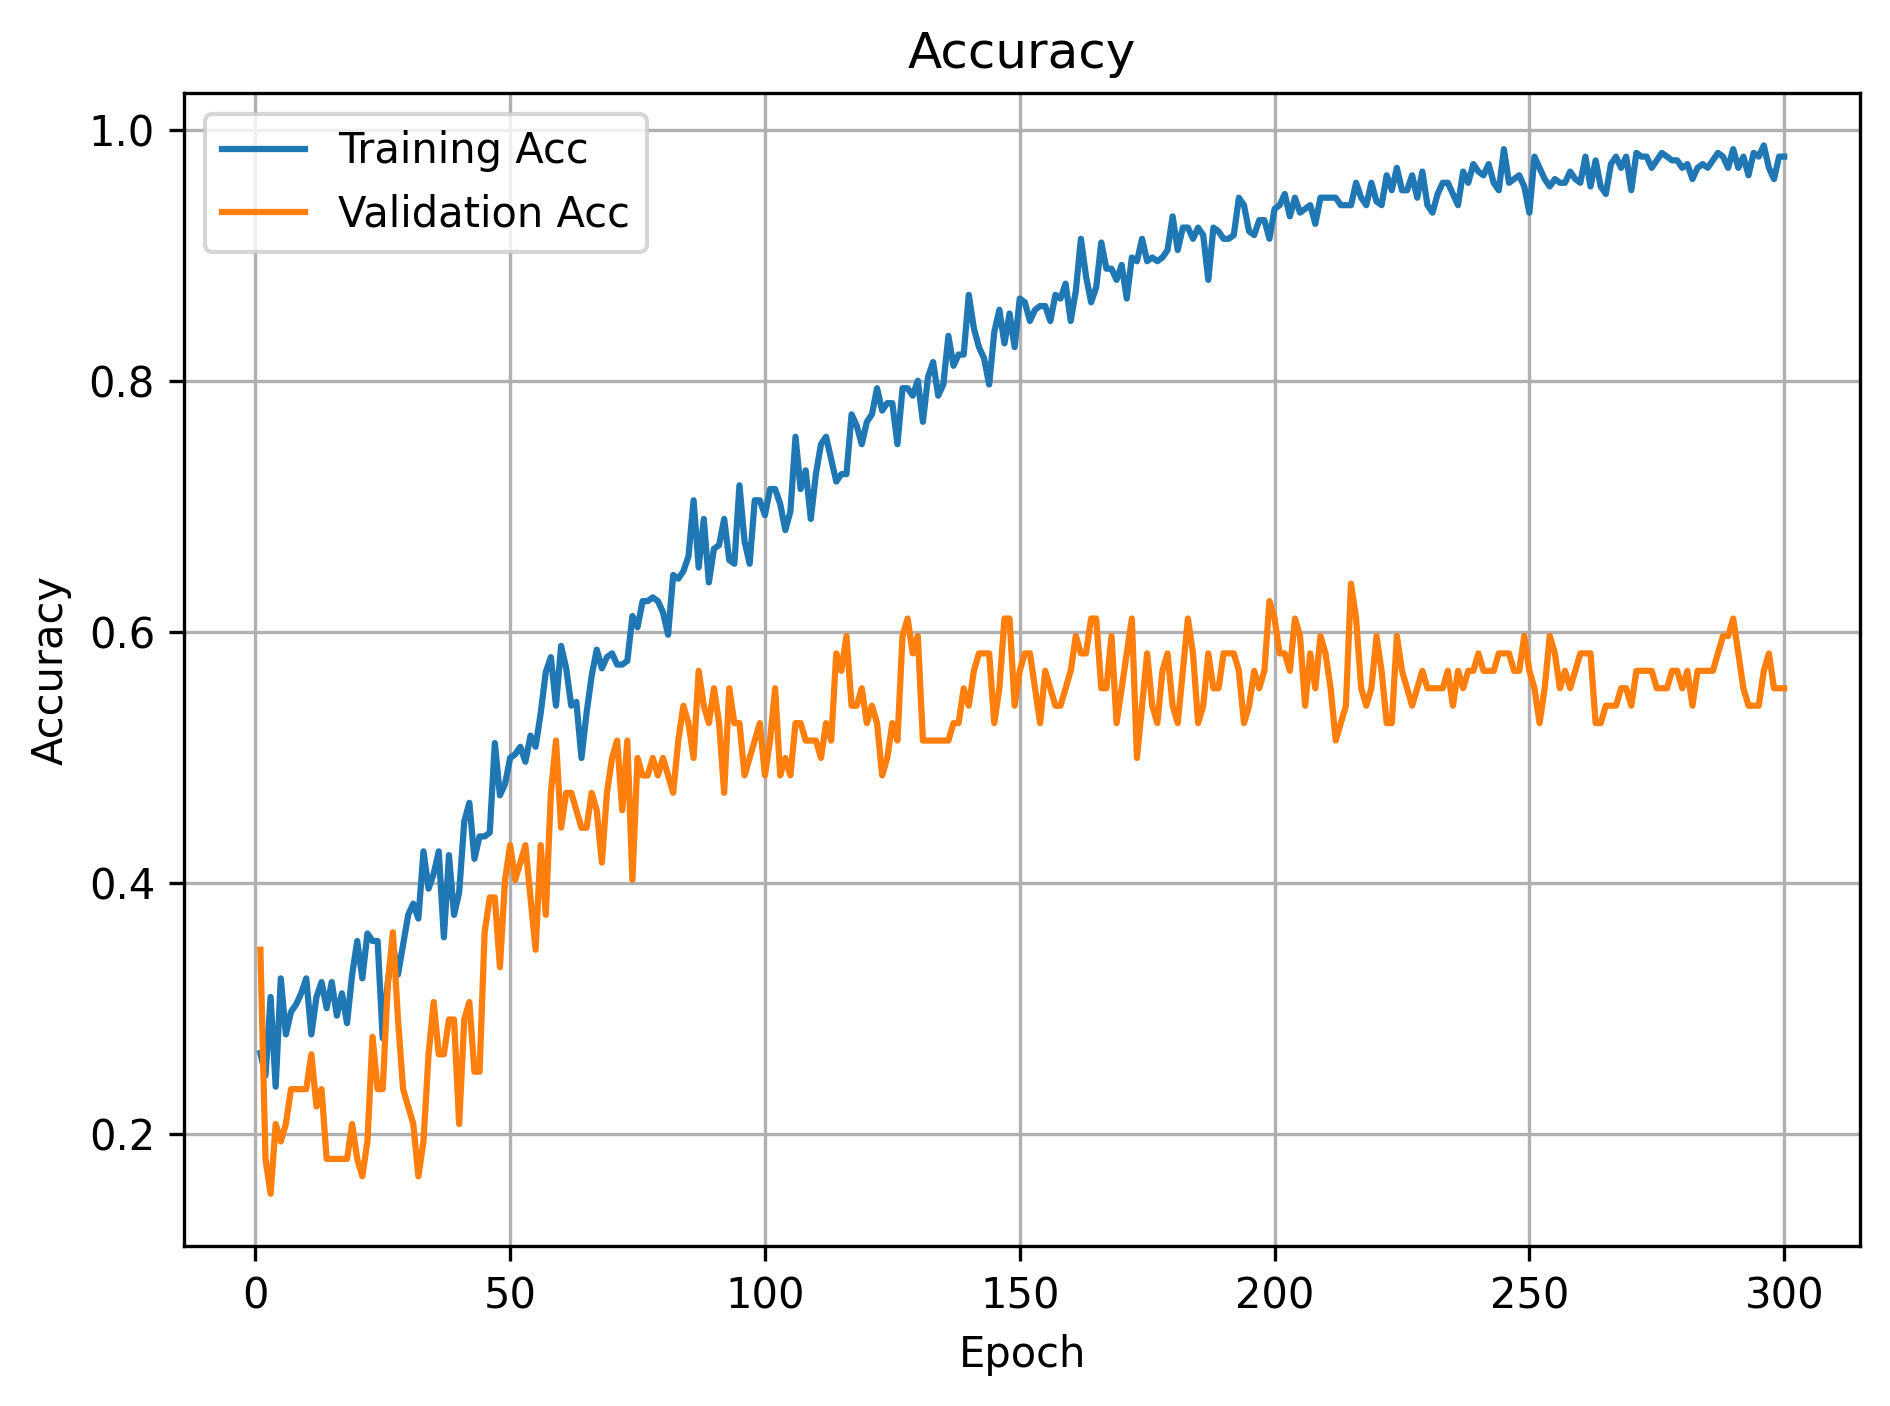
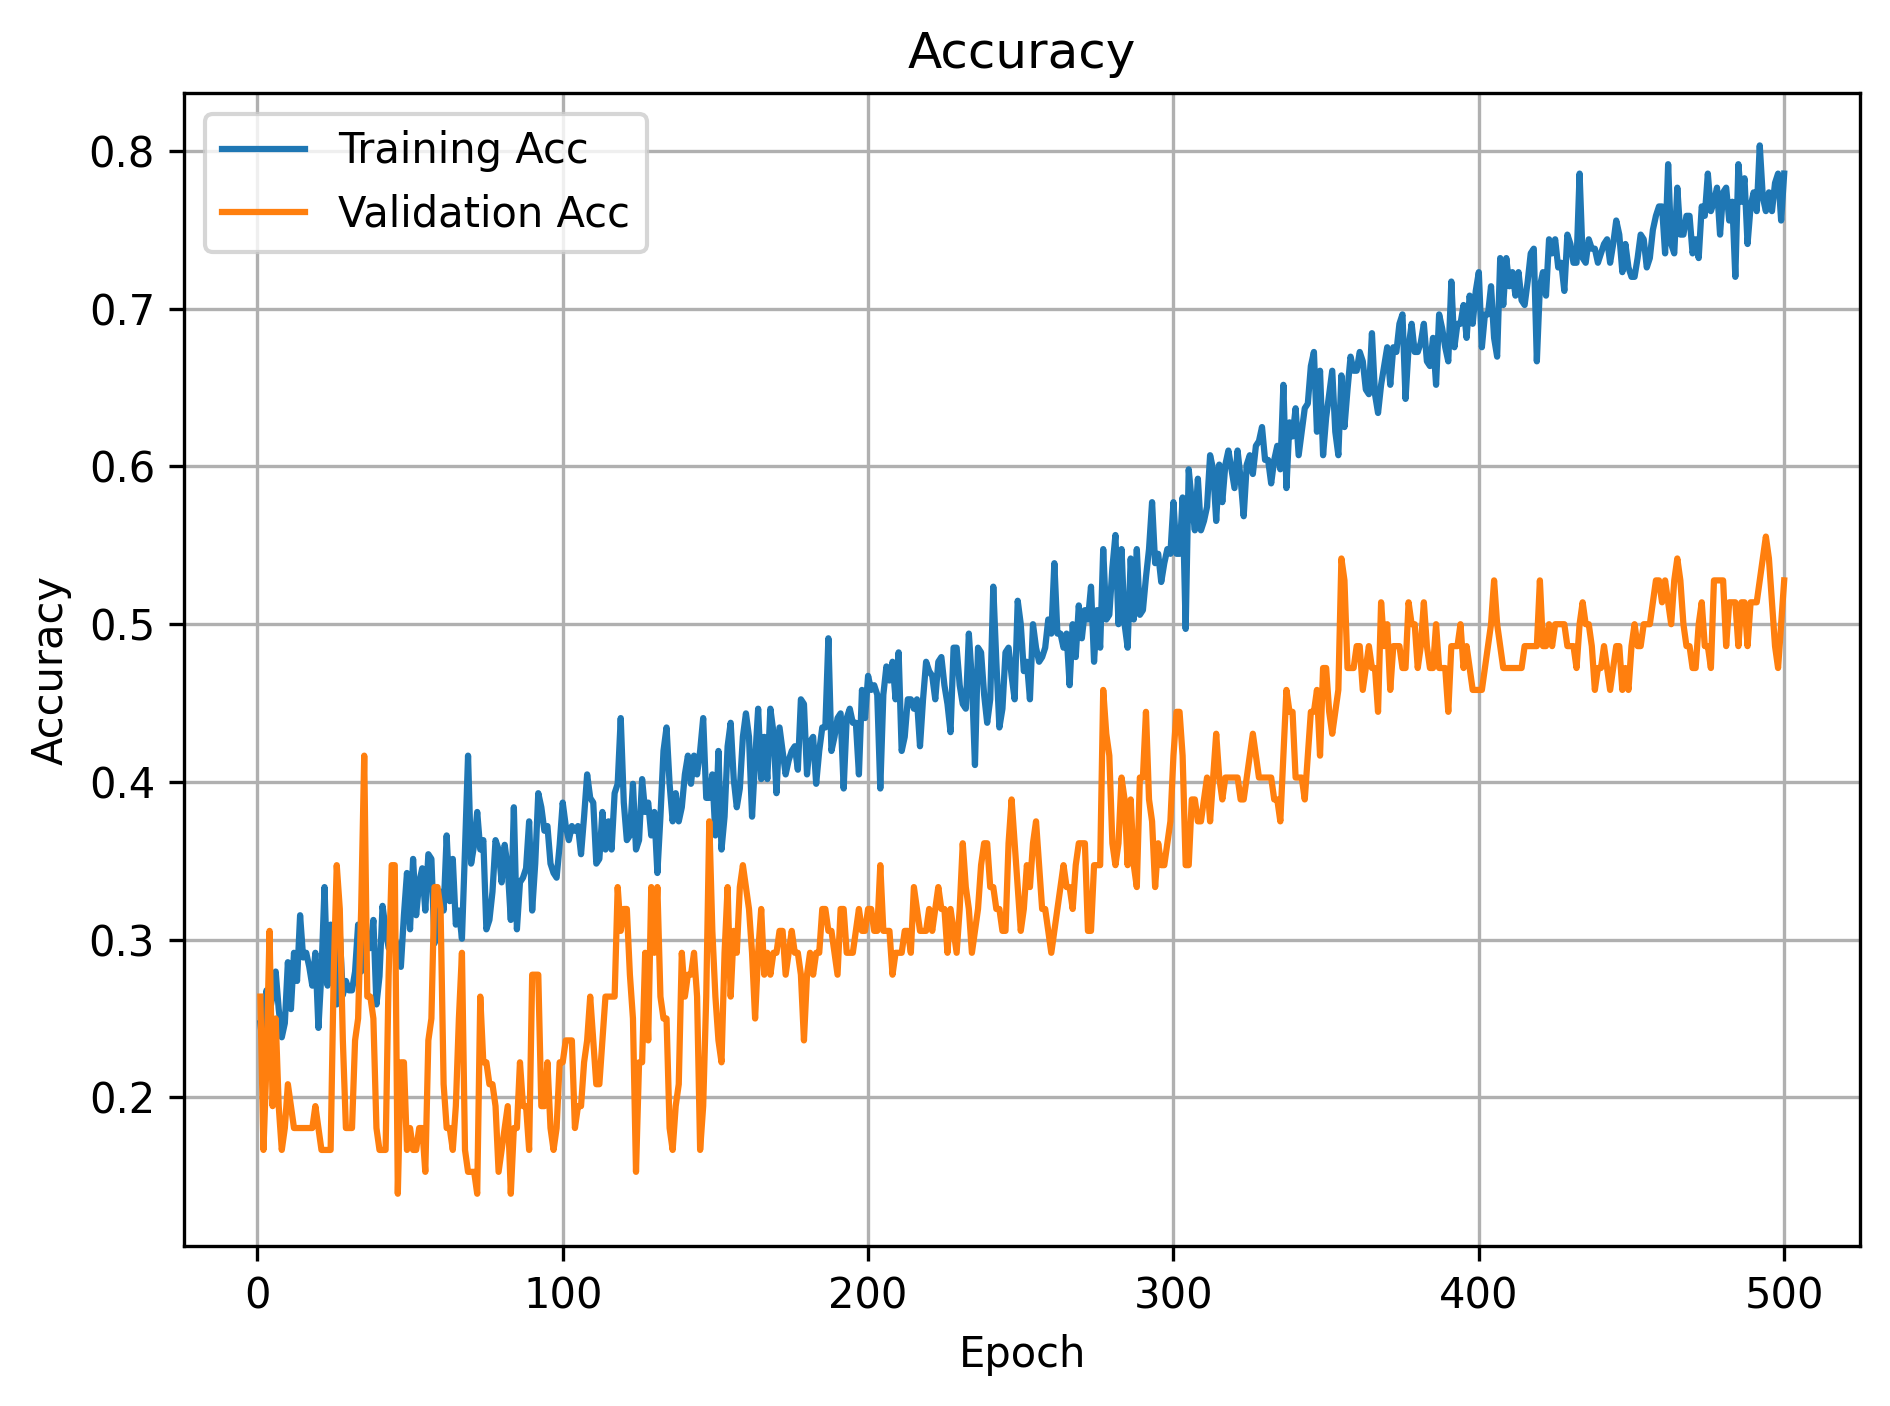
good result

diff --git a/EEG-classification/the_ml/bigmodel.py b/EEG-classification/the_ml/bigmodel.py
@@ -8,11 +8,11 @@ def model(x_example, hyperparameters):
 
     return nn.Sequential(
         nn.BatchNorm2d(num_channels),
-        ConvLayer(num_channels, num_channels*4, 0.3, 5),
-        ConvLayer(num_channels*4, num_channels*2, 0.2, 5),
-        ConvLayer(num_channels*2, num_channels, 0.2, 5),
+        ConvLayer(num_channels, num_channels*4, 0.4, 5),
+        ConvLayer(num_channels*4, num_channels*2, 0.4, 5),
+        ConvLayer(num_channels*2, num_channels, 0.4, 5),
         nn.Flatten(),
-        LinearLayer(num_channels*h*w, 128, 0.5),
+        LinearLayer(num_channels*h*w, 128, 0.7),
         nn.Linear(128, 4)
     )
 

diff --git a/EEG-classification/main.py b/EEG-classification/main.py
@@ -37,9 +37,9 @@ verbose = True
 hyperparams = {
     "bands": "five",
     "lr": 1e-3,
-    "weight_decay": 1e-4,
+    "weight_decay": 7e-2,
     "batch_size": 128,
-    "epochs": 300
+    "epochs": 500
 }
 
 
@@ -81,7 +81,7 @@ if verbose:
 # Applies preprocessing
 print("Preprocessing input data")
 X = checkpoint(lambda : preprocess_dataset(X_raw, hyperparams["bands"], verbose=True), "preprocessed")
-print(f"Preprocessed inpu dataset shape: {X.shape}")
+print(f"Preprocessed input dataset shape: {X.shape}")
 
 # Stores in a TensorDataset
 dataset = DataModule(X, y, val_part=0.15, test_part=0.15)
